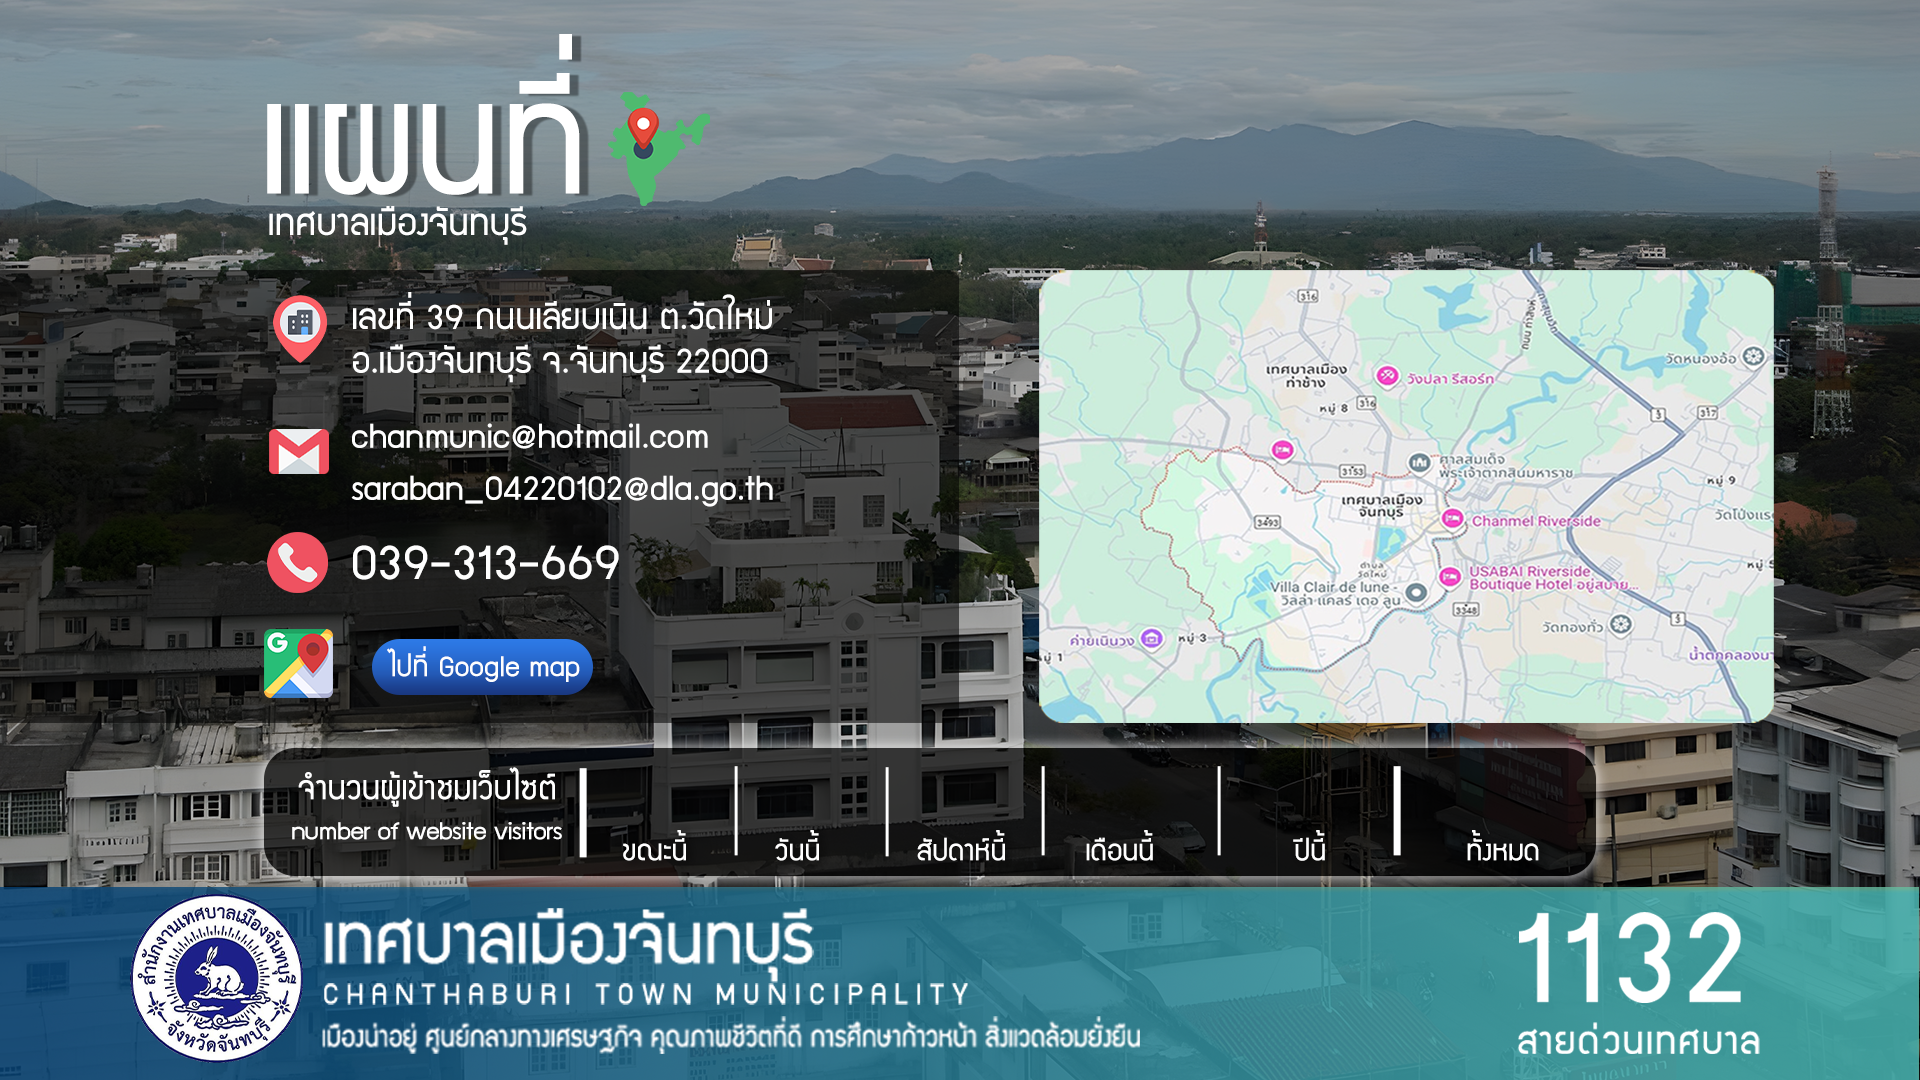
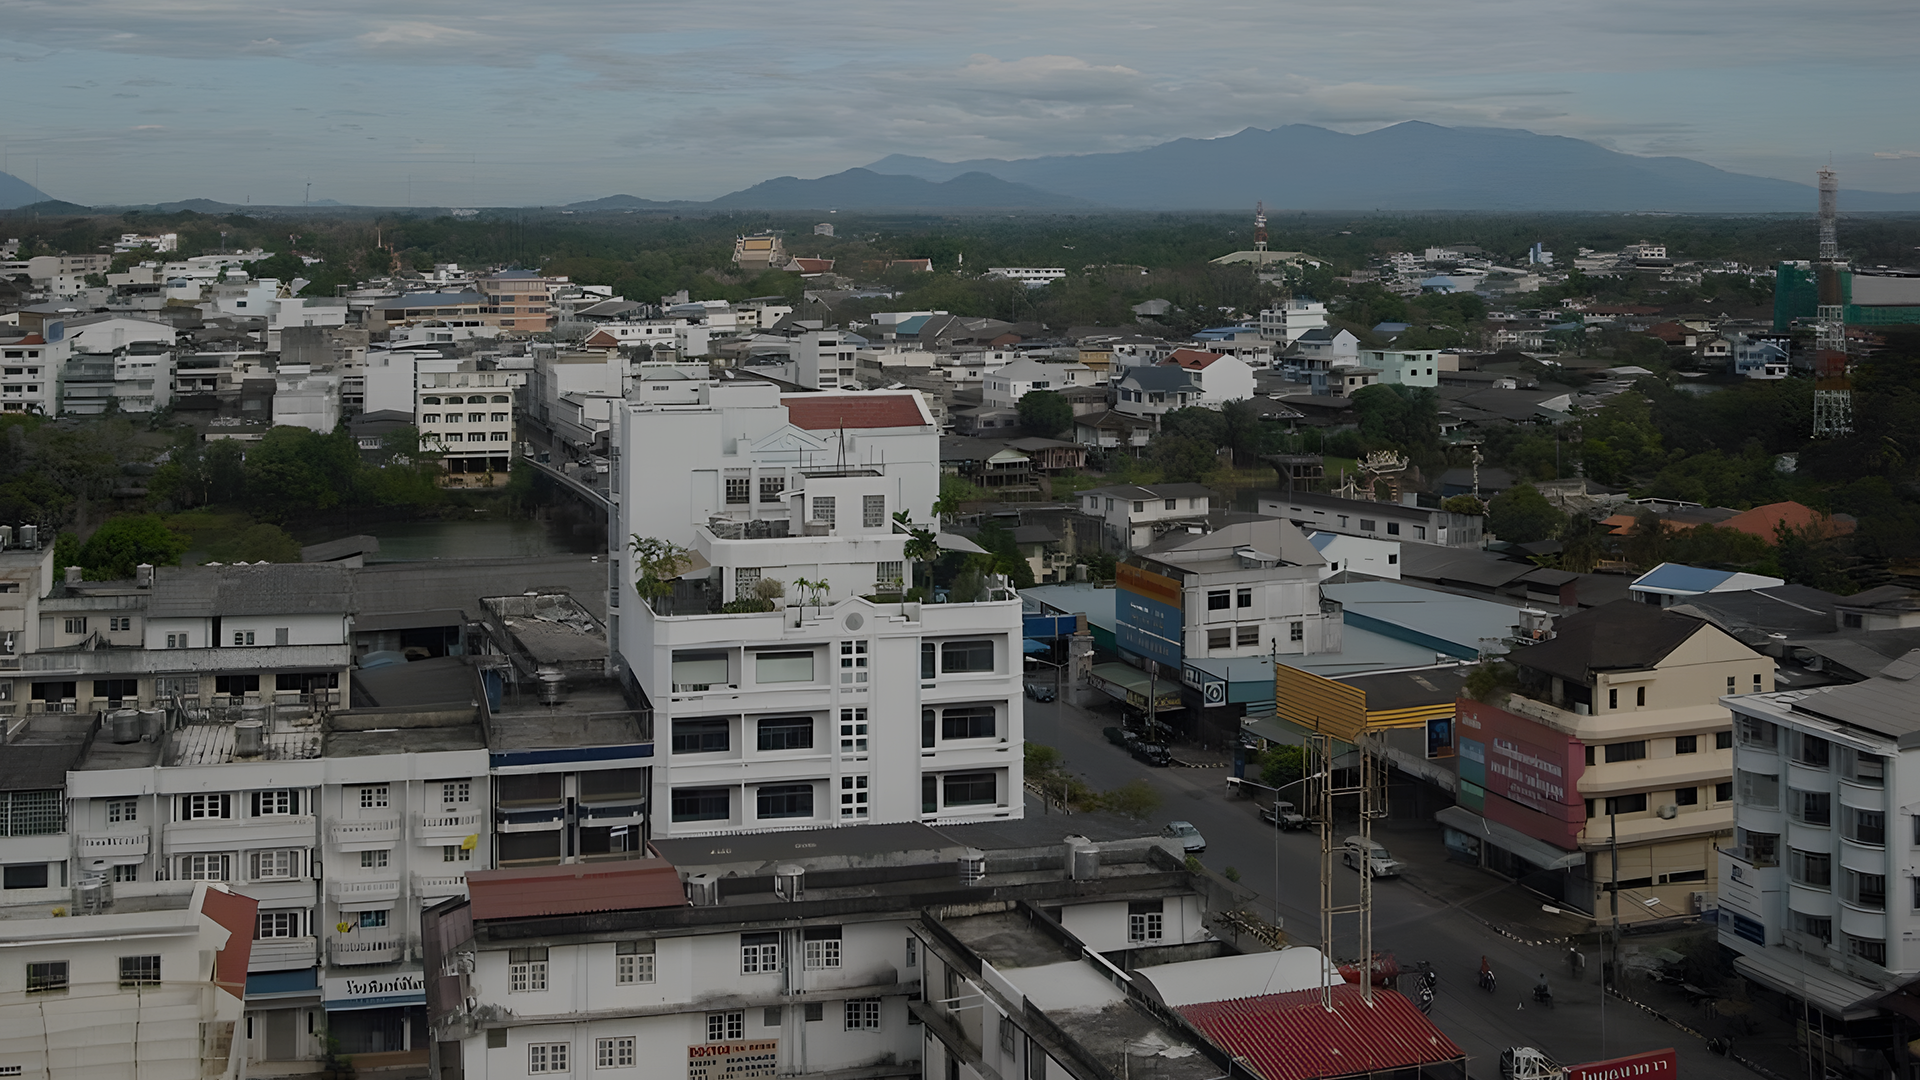
update

diff --git a/resources/views/home/components/page-10.blade.php b/resources/views/home/components/page-10.blade.php
@@ -1,14 +1,138 @@
 <style>
     .bg-page10 {
-        background-image: url('{{ asset('images/pages/10/bg-10s.png') }}');
+        background-image: url('{{ asset('images/pages/10/bg-10.png') }}');
         background-size: cover;
         background-position: center;
         background-repeat: no-repeat;
-        min-height: 110vh;
-        padding-bottom: 5rem;
+    }
+
+    .title-section-10 {
+        font-size: 70px;
+        text-shadow: 2px 2px 5px black;
+    }
+
+    .bg-text-section-10 {
+        background-color: rgba(0, 0, 0, 0.7);
+        color: #ffff;
+        font-size: 30px;
+        border-radius: 20px;
+        padding-top: 2rem;
+        padding-bottom: 2rem;
+        padding-right: 4rem;
+        padding-left: 2rem;
+    }
+
+    .bg-text-section-10 img {
+        width: 3rem;
+    }
+
+    .bg-coute {
+        background: rgba(0, 0, 0, 0.7);
+        box-shadow: 0 4px 10px rgba(255, 255, 255, 0.5);
+        /* เงาสีขาว */
+        color: #fff;
+        /* แก้ไขจาก #ffff เป็น #fff */
+        padding: 10px 20px;
+        border-radius: 20px;
+        width: 100%;
+    }
+
+    .bg-footer {
+        background: linear-gradient(to right, rgba(0, 60, 86, 0.8), rgba(0, 184, 184, 0.8));
+        width: 100%;
+    }
+
+    .logo-footer-section-10 {
+        height: 160px;
+    }
+
+    .title-logo-footer {
+        height: 170px;
     }
 </style>
 
-<main class="bg-page10">
-
+<main class="bg-page10 d-flex flex-column justify-content-start align-items-center gap-5">
+    <div class="container d-flex mt-5">
+        <div class="title-section-10 lh-1 text-white" style="font-size: 72px;">
+            <div class="d-flex align-items-end gap-3">
+                แผนที่ <img src="{{ asset('images/pages/10/india.png') }}" alt="icon-map" width="80">
+            </div>
+            <div class="fs-2">เทศบาบเมืองจันบุรี</div>
+        </div>
+    </div>
+    <div class="container d-flex justify-content-between align-items-center">
+        <div class="bg-text-section-10 d-flex flex-column justify-content-start align-items-start gap-4">
+            <div class="d-flex align-items-end lh-1 gap-3">
+                <img src="{{ asset('images/pages/10/building.png') }}" alt="icon">
+                <div class="text">
+                    เลขที่ 39 ถนนเลียบเนิน ต.วัดใหม่ <br>
+                    อ.เมืองจันทบุรี จ.จันทบุรี 22000
+                </div>
+            </div>
+            <div class="d-flex align-items-end lh-1 gap-3">
+                <img src="{{ asset('images/pages/10/gmail.png') }}" alt="icon">
+                <div class="text">
+                    chanmunic@hotmail.com <br>
+                    saraban_04220102@dla.go.th
+                </div>
+            </div>
+            <div class="d-flex align-items-end lh-1 gap-3">
+                <img src="{{ asset('images/pages/10/phone-call.png') }}" alt="icon">
+                <div class="text" style="font-size: 50px;">
+                    039-313-669
+                </div>
+            </div>
+            <div class="d-flex align-items-end lh-1 gap-3">
+                <img src="{{ asset('images/pages/10/google-maps.png') }}" alt="icon">
+                <a href="https://maps.app.goo.gl/cAnHZwdeLUMz89sa9" target="_blank" class="btn btn-primary fs-5 px-4" style="border-radius: 30px;"> ไปที่ Google map </a>
+            </div>
+        </div>
+        <div class="d-flex align-items-end ">
+            <iframe src="https://www.google.com/maps/embed?pb=!1m18!1m12!1m3!1d31149.617128833102!2d102.07114761286515!3d12.601871743491508!2m3!1f0!2f0!3f0!3m2!1i1024!2i768!4f13.1!3m3!1m2!1s0x31048192adecbd05%3A0xf0e5e2b5d3162870!2z4LmA4LiX4Lio4Lia4Liy4Lil4LmA4Lih4Li34Lit4LiH4LiI4Lix4LiZ4LiX4Lia4Li44Lij4Li1IOC4reC4s-C5gOC4oOC4reC5gOC4oeC4t-C4reC4h-C4iOC4seC4meC4l-C4muC4uOC4o-C4tSDguIjguLHguJnguJfguJrguLjguKPguLUgMjIwMDA!5e0!3m2!1sth!2sth!4v1737962171621!5m2!1sth!2sth" width="600" height="450" style="border:0px solid black; border-radius:20px;" allowfullscreen="" loading="lazy" referrerpolicy="no-referrer-when-downgrade"></iframe>
+        </div>
+    </div>
+    <div class="container bg-coute mb-2 ">
+        <div class=" d-flex justify-content-center align-items-center">
+            <div class="text-center py-3 px-4 border-3 border-light border-end lh-1">
+                <span class="fw-bold fs-3">จำนวนผู้เข้าชมเว็บไซต์</span> <br>
+                number of website visitors
+            </div>
+            <div class="text-center py-3 px-5 border-3 border-light border-end lh-1">
+                <span class="fw-bold fs-2">1</span> <br>
+                <span class=" fs-4">ขณะนี้</span>
+            </div>
+            <div class="text-center py-3 px-5 border-3 border-light border-end lh-1">
+                <span class="fw-bold fs-2">1</span> <br>
+                <span class=" fs-4">วันนี้</span>
+            </div>
+            <div class="text-center py-3 px-5 border-3 border-light border-end lh-1">
+                <span class="fw-bold fs-2">1</span> <br>
+                <span class=" fs-4">เดือนนี้</span>
+            </div>
+            <div class="text-center py-3 px-5 lh-1">
+                <span class="fw-bold fs-2">1</span> <br>
+                <span class=" fs-4">ปีนี้</span>
+            </div>
+            <div class="text-center py-3 px-5 border-3 border-light border-start lh-1">
+                <span class="fw-bold fs-2">1</span> <br>
+                <span class=" fs-4">ทั้งหมด</span>
+            </div>
+        </div>
+    </div>
+    <div class="bg-footer d-flex">
+        <div class="container d-flex justify-content-between">
+            <div class="d-flex align-items-center">
+                <img src="{{ asset('images/pages/10/logox.png') }}" alt="icon" class="logo-footer-section-10">
+                <img src="{{ asset('images/pages/10/title-logo.png') }}" alt="title" class="title-logo-footer">
+            </div>
+            <div class="d-flex flex-column justify-content-center text-light fw-bold lh-1">
+                <div style="font-size:72px;">
+                    1132
+                </div>
+                <div class="fs-4">
+                    สายด่วนเทศบาล
+                </div>
+            </div>
+        </div>
+    </div>
 </main>
